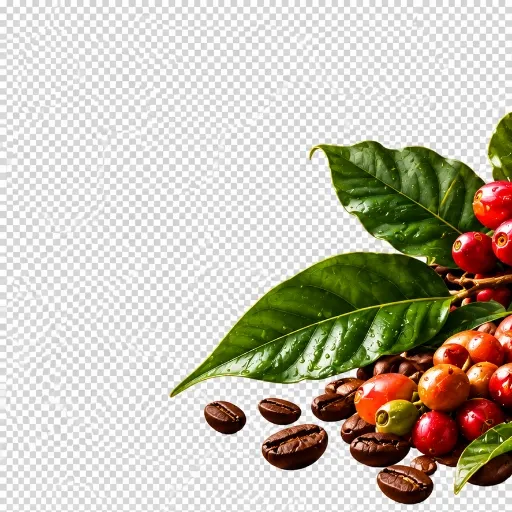
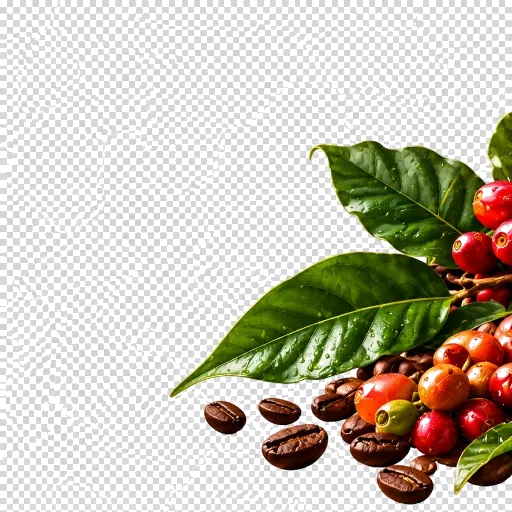
fix: Programmatically removed the checkerboard background from the newsletter assets and fixed the image sizing/blend issues to match the exact design

diff --git a/template/main/components/newsletter.html b/template/main/components/newsletter.html
@@ -1,30 +1,25 @@
 
 <style>
     .kapi-newsletter-section {
-        background-color: #432521;
+        background-color: #4A2C2A;
         position: relative;
         overflow: hidden;
     }
     .news-img-left {
         position: absolute;
-        left: -5%;
-        bottom: -10%;
-        width: 35%;
-        max-width: 450px;
+        left: -20px;
+        bottom: -20px;
+        width: 350px;
+        max-width: 30vw;
         z-index: 1;
-        /* Using multiply to hide the white/grey background of the provided JPG */
-        mix-blend-mode: multiply;
-        filter: brightness(1.2) contrast(1.1);
     }
     .news-img-right {
         position: absolute;
-        right: -2%;
-        bottom: 0;
-        width: 32%;
-        max-width: 420px;
+        right: -20px;
+        bottom: -20px;
+        width: 350px;
+        max-width: 30vw;
         z-index: 1;
-        mix-blend-mode: multiply;
-        filter: brightness(1.2) contrast(1.1);
     }
     .news-content {
         position: relative;
@@ -52,10 +47,10 @@
     .news-btn:hover {
         background-color: #e6c87a;
     }
-    @media (max-width: 991px) {
+    @media (max-width: 768px) {
         .news-img-left, .news-img-right {
             opacity: 0.15;
-            mix-blend-mode: normal;
+            width: 200px;
         }
     }
 </style>
@@ -63,13 +58,12 @@
 <section class="kapi-newsletter-section text-center py-5">
     
     <!-- Left & Right Images -->
-    <img src="/static/main/images/home/news-left.webp" alt="Coffee Cherries" class="news-img-left d-none d-md-block">
-    <img src="/static/main/images/home/news-right.webp" alt="Brass Coffee Filter" class="news-img-right d-none d-md-block">
+    <img src="/static/main/images/home/news-left.webp" alt="Coffee Cherries" class="news-img-left">
+    <img src="/static/main/images/home/news-right.webp" alt="Brass Coffee Filter" class="news-img-right">
     
-    <div class="container py-5 news-content">
+    <div class="container py-5 my-3 news-content">
         <div class="text-uppercase fw-bold mb-3" style="color: #D4B872; letter-spacing: 2px; font-size: 0.8rem;">JOIN THE KAPI CULTURE</div>
         
-        <!-- Explicitly white as requested -->
         <h2 class="display-5 fw-bold mb-3 text-white" style="font-family: var(--font-heading); line-height: 1.2;">Good Coffee. Brighter Days.</h2>
         
         <p class="mb-5 mx-auto" style="color: #E0E0E0; max-width: 550px; font-size: 0.95rem; line-height: 1.6;">
